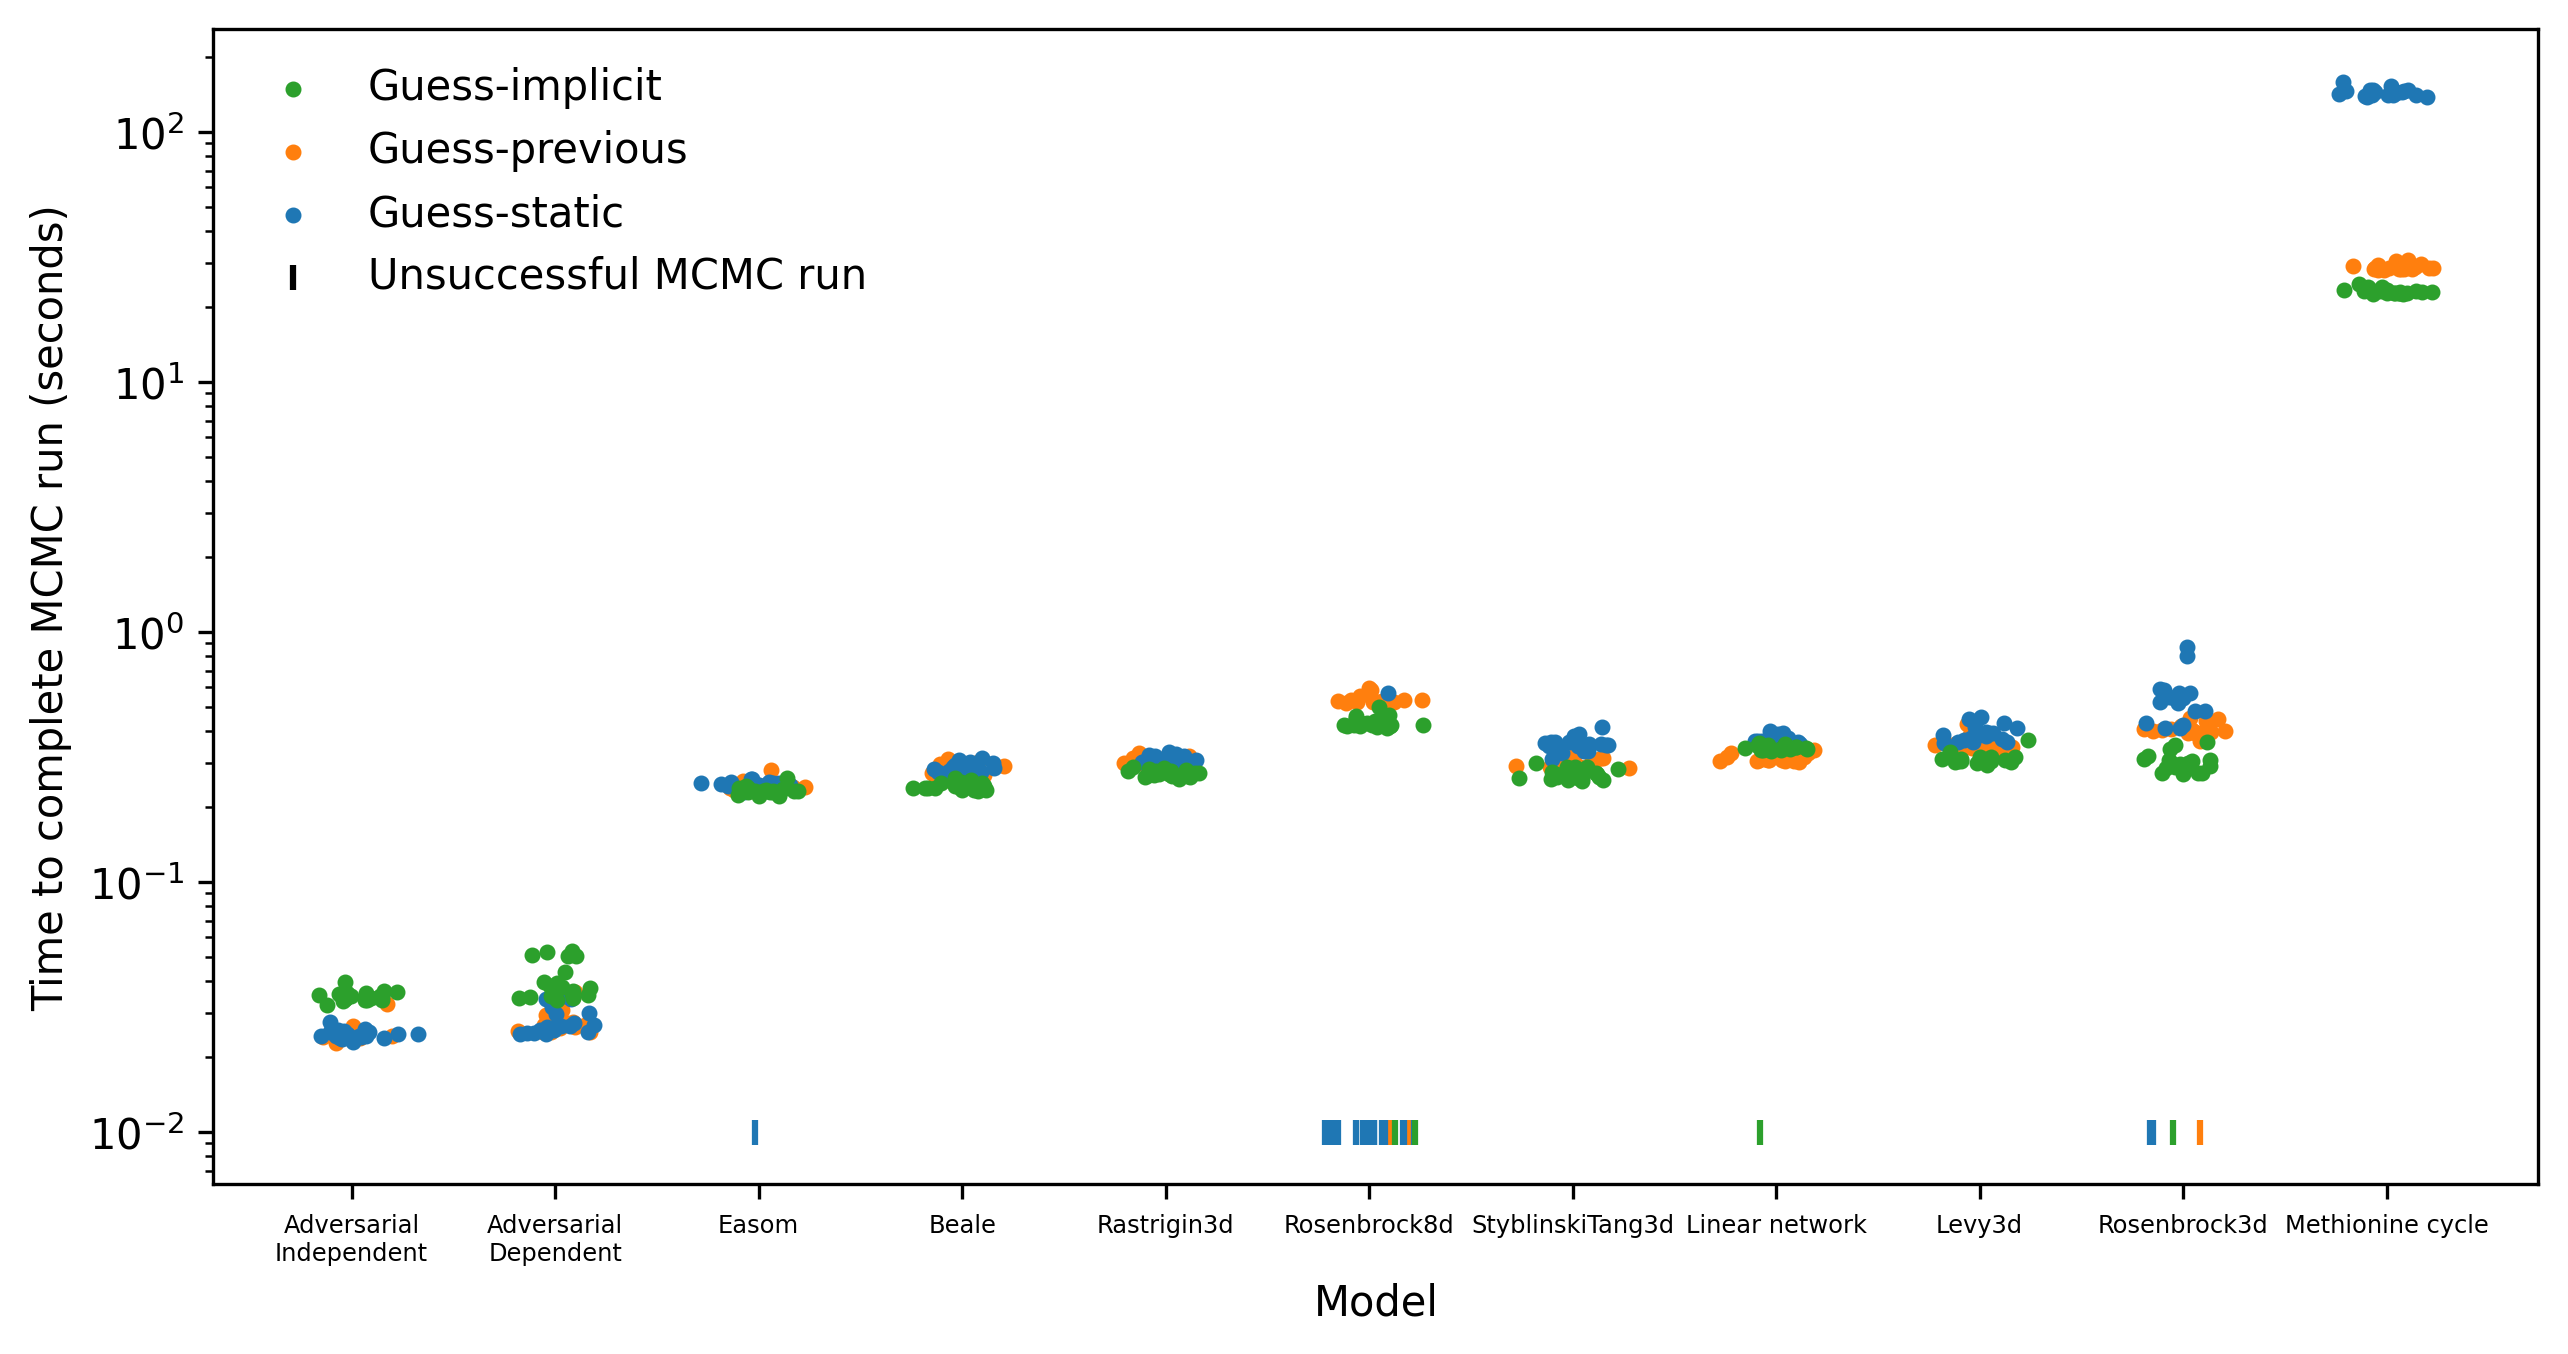
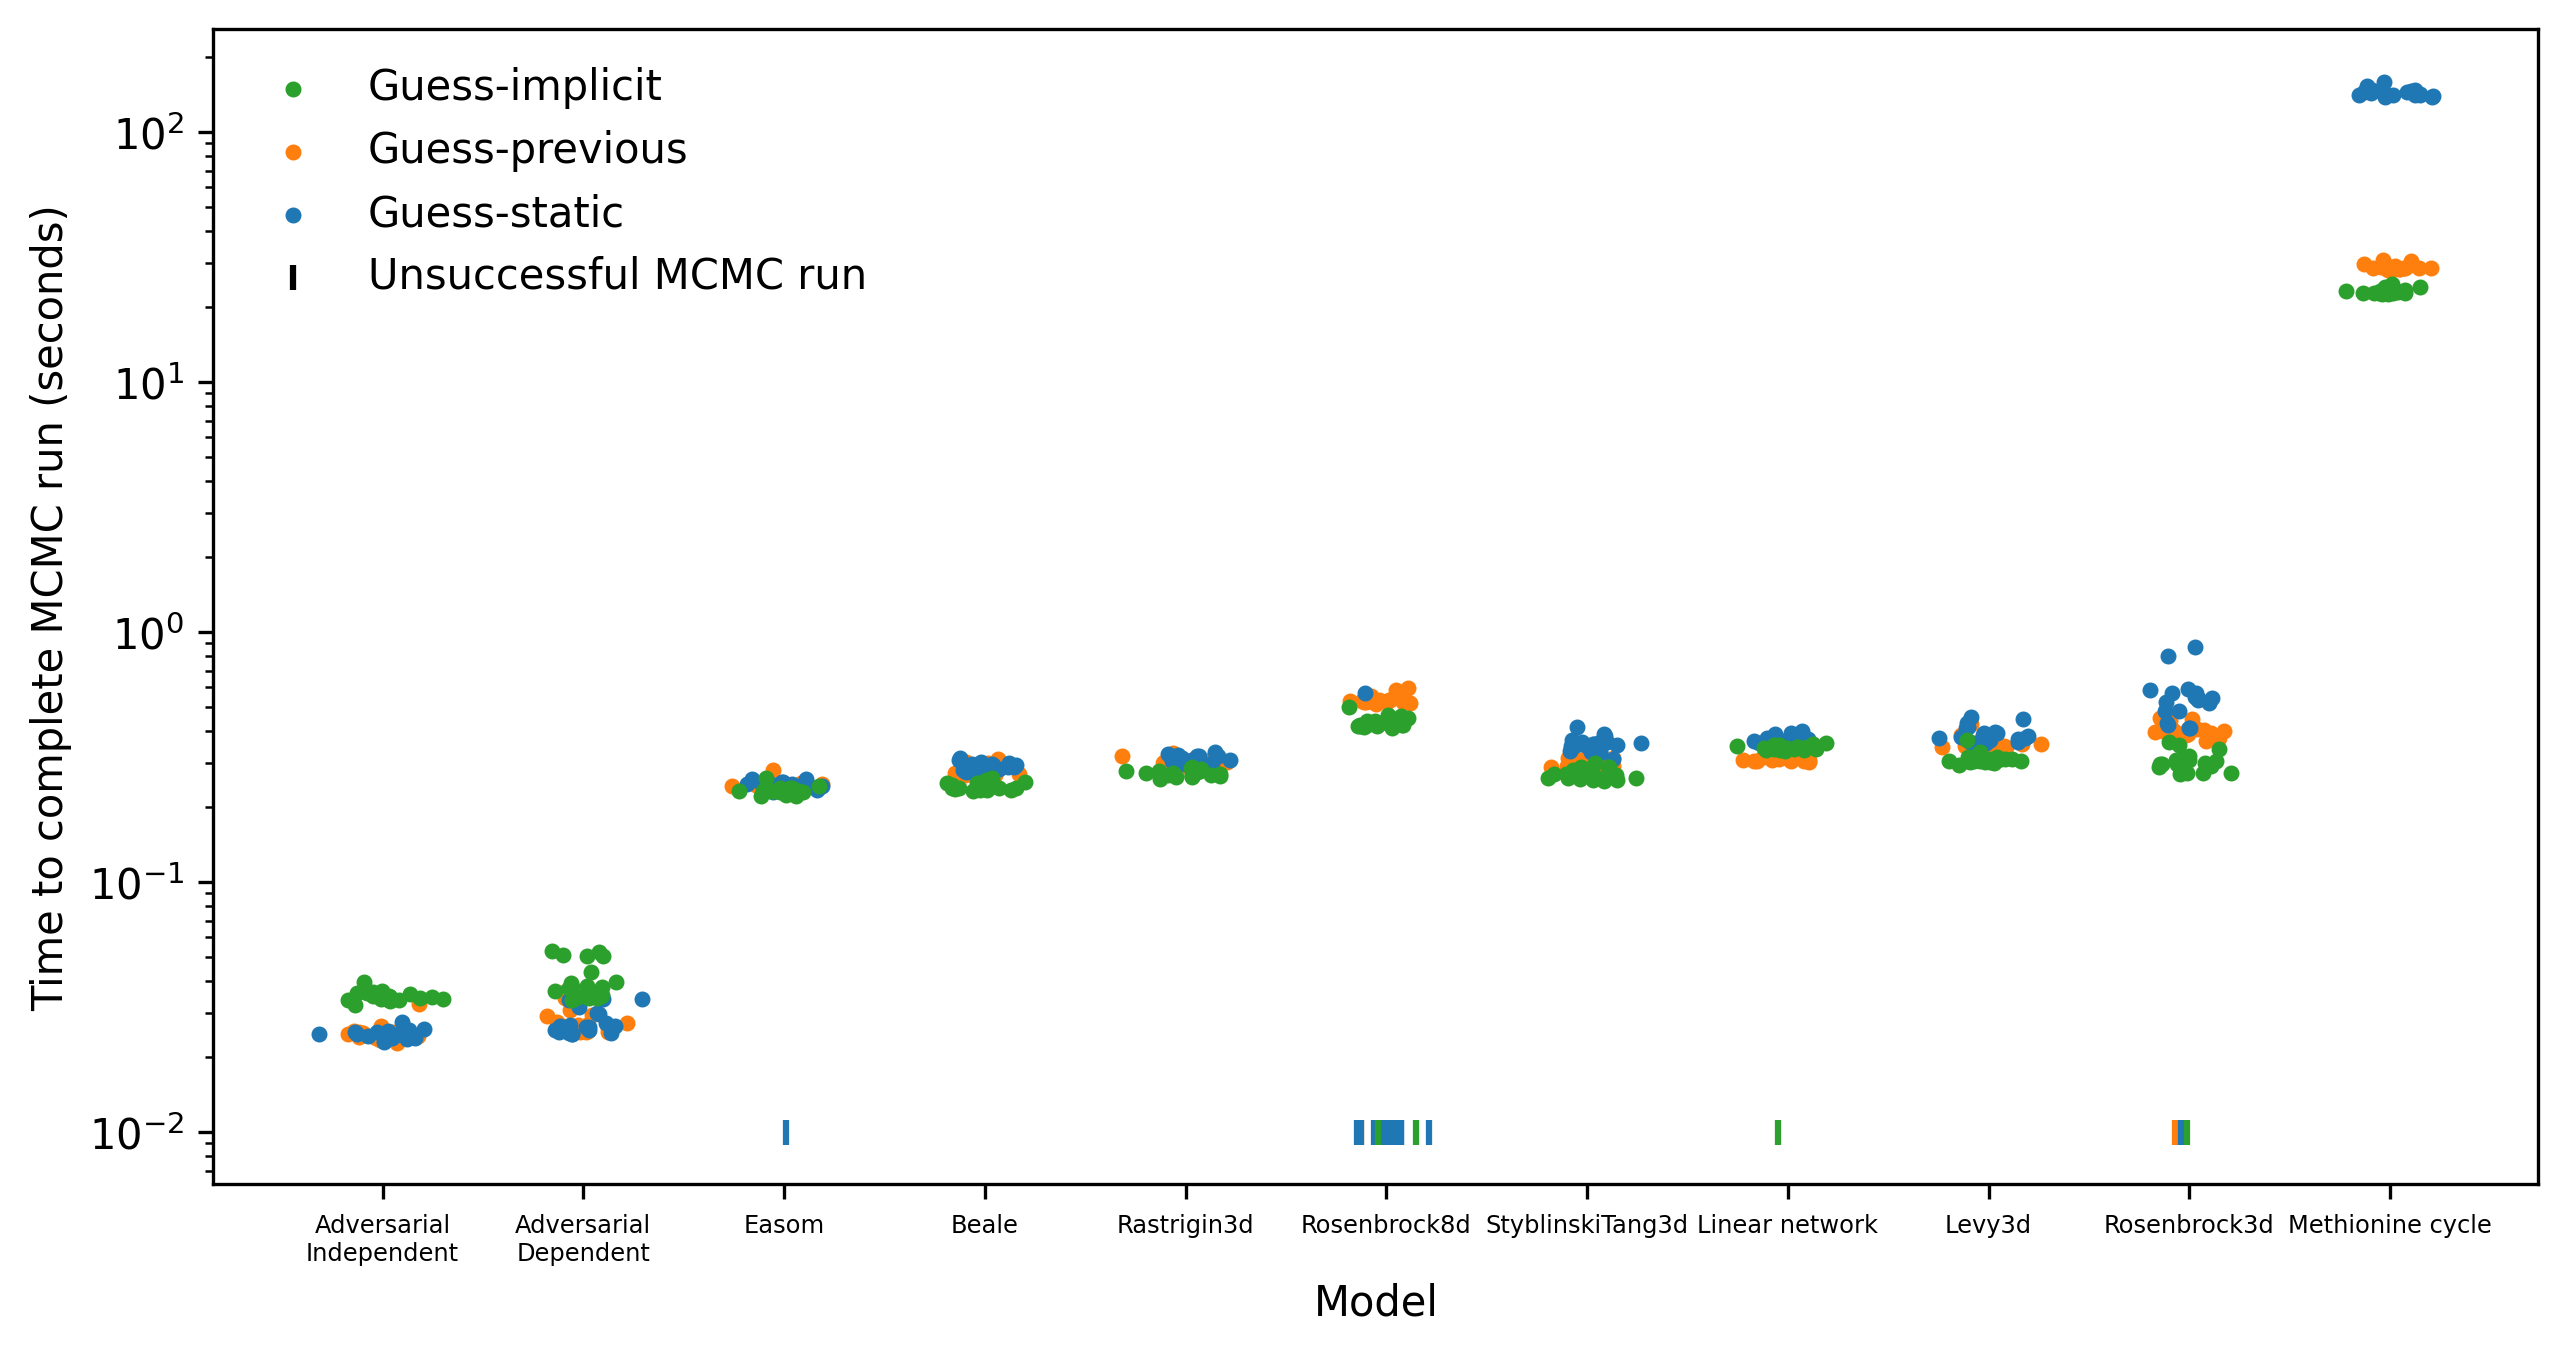
More graph changes

diff --git a/benchmarks/analyse_results.py b/benchmarks/analyse_results.py
@@ -49,7 +49,7 @@ def mm_fig(results_df: pl.DataFrame):
     return f, ax
 
 
-def performance_fig(results: pl.DataFrame, col, yfail=1e-1):
+def performance_fig(results: pl.DataFrame, col, yfail: float | None = None):
     f, ax = plt.subplots(figsize=[10, 5])
     plot_df = (
         results.with_columns(
@@ -79,14 +79,16 @@ def performance_fig(results: pl.DataFrame, col, yfail=1e-1):
             s=8,
             color=HEURISTIC_COLORS[heuristic],
         )
-        fail = subdf.filter(pl.col("n_newton_steps") == 0)
-        ax.scatter(
-            fail["x"] + fail["x_jitter"],
-            fail["n_newton_steps"] + yfail,
-            marker="|",
-            color=HEURISTIC_COLORS[heuristic],
-            label="Unsuccessful MCMC run",
-        )
+        if yfail is not None:
+            fail = subdf.filter(pl.col("n_newton_steps") == 0)
+            ax.scatter(
+                fail["x"] + fail["x_jitter"],
+                fail["n_newton_steps"] + yfail,
+                marker="|",
+                color=HEURISTIC_COLORS[heuristic],
+                label="Unsuccessful MCMC run",
+            )
+    ax.axhline(0, color="red", lw=1)
     handles, labels = ax.get_legend_handles_labels()
     by_label = dict(
         sorted(dict(zip(labels, handles)).items())
@@ -96,16 +98,20 @@ def performance_fig(results: pl.DataFrame, col, yfail=1e-1):
         by_label.keys(),
         frameon=False,
     )
-    leg.legend_handles[-1].set_facecolor("black")
+    if yfail is not None:
+        leg.legend_handles[-1].set_facecolor("black")
 
     # ax.grid(visible=True, which="major", axis="y")
+    if yfail is None:
+        ax.text(0, 0.3, "↑ Static guessing better", va="bottom", ha="left")
+        ax.text(0, -0.3, "↓ Dynamic guessing better", va="top", ha="left")
     ax.set_xticks(
         x["x"],
         list(x["case"].str.replace("-", "\n")),
         fontsize="xx-small",
     )
     if col == "n_newton_steps":
-        ylabel = "Number of solver steps for 500 MCMC iterations"
+        ylabel = "Solver steps (Difference vs static)"
     elif col == "time":
         ylabel = "Time to complete MCMC run (seconds)"
     else:
@@ -114,7 +120,7 @@ def performance_fig(results: pl.DataFrame, col, yfail=1e-1):
         ylabel=ylabel,
         xlabel="Model",
     )
-    ax.semilogy()
+    ax.set_yscale("symlog")
     # ax.yaxis.set_major_formatter(ticker.ScalarFormatter())
     return f, ax
 
@@ -270,6 +276,23 @@ def main():
         [df_test_functions, df_linear, df_methionine, df_adversarial],
         how="align",
     )
+    comp = df_performance.filter(heuristic="guess_static")[
+        ["case", "rep", "time", "n_newton_steps"]
+    ]
+    rel_performance = (
+        df_performance.filter(pl.col("heuristic") != "guess_static")
+        .join(
+            comp,
+            on=["case", "rep"],
+        )
+        .filter(pl.col("time_right") != 0)
+        .with_columns(
+            time=pl.col("time") - pl.col("time_right"),
+            n_newton_steps=pl.col("n_newton_steps")
+            - pl.col("n_newton_steps_right"),
+        )
+        .drop(pl.selectors.ends_with("_right"))
+    )
     time_summary, step_summary = (
         df_performance.filter(
             pl.col("time") != 0.0,
@@ -298,10 +321,11 @@ def main():
         print(time_summary)
         print("Step summary")
         print(step_summary)
-    f, _ = performance_fig(df_performance, col="n_newton_steps", yfail=1e3)
+    f, _ = performance_fig(rel_performance, col="n_newton_steps")
     f.savefig(HERE / "performance.png", bbox_inches="tight", dpi=300)
 
-    f, _ = performance_fig(df_performance, col="time", yfail=1e-2)
+    f, ax = performance_fig(df_performance, col="time", yfail=0.01)
+    ax.semilogy()
     f.savefig(HERE / "wall-time.png", bbox_inches="tight", dpi=300)
 
     f, _ = illustrative_figure(df_trajectory)
